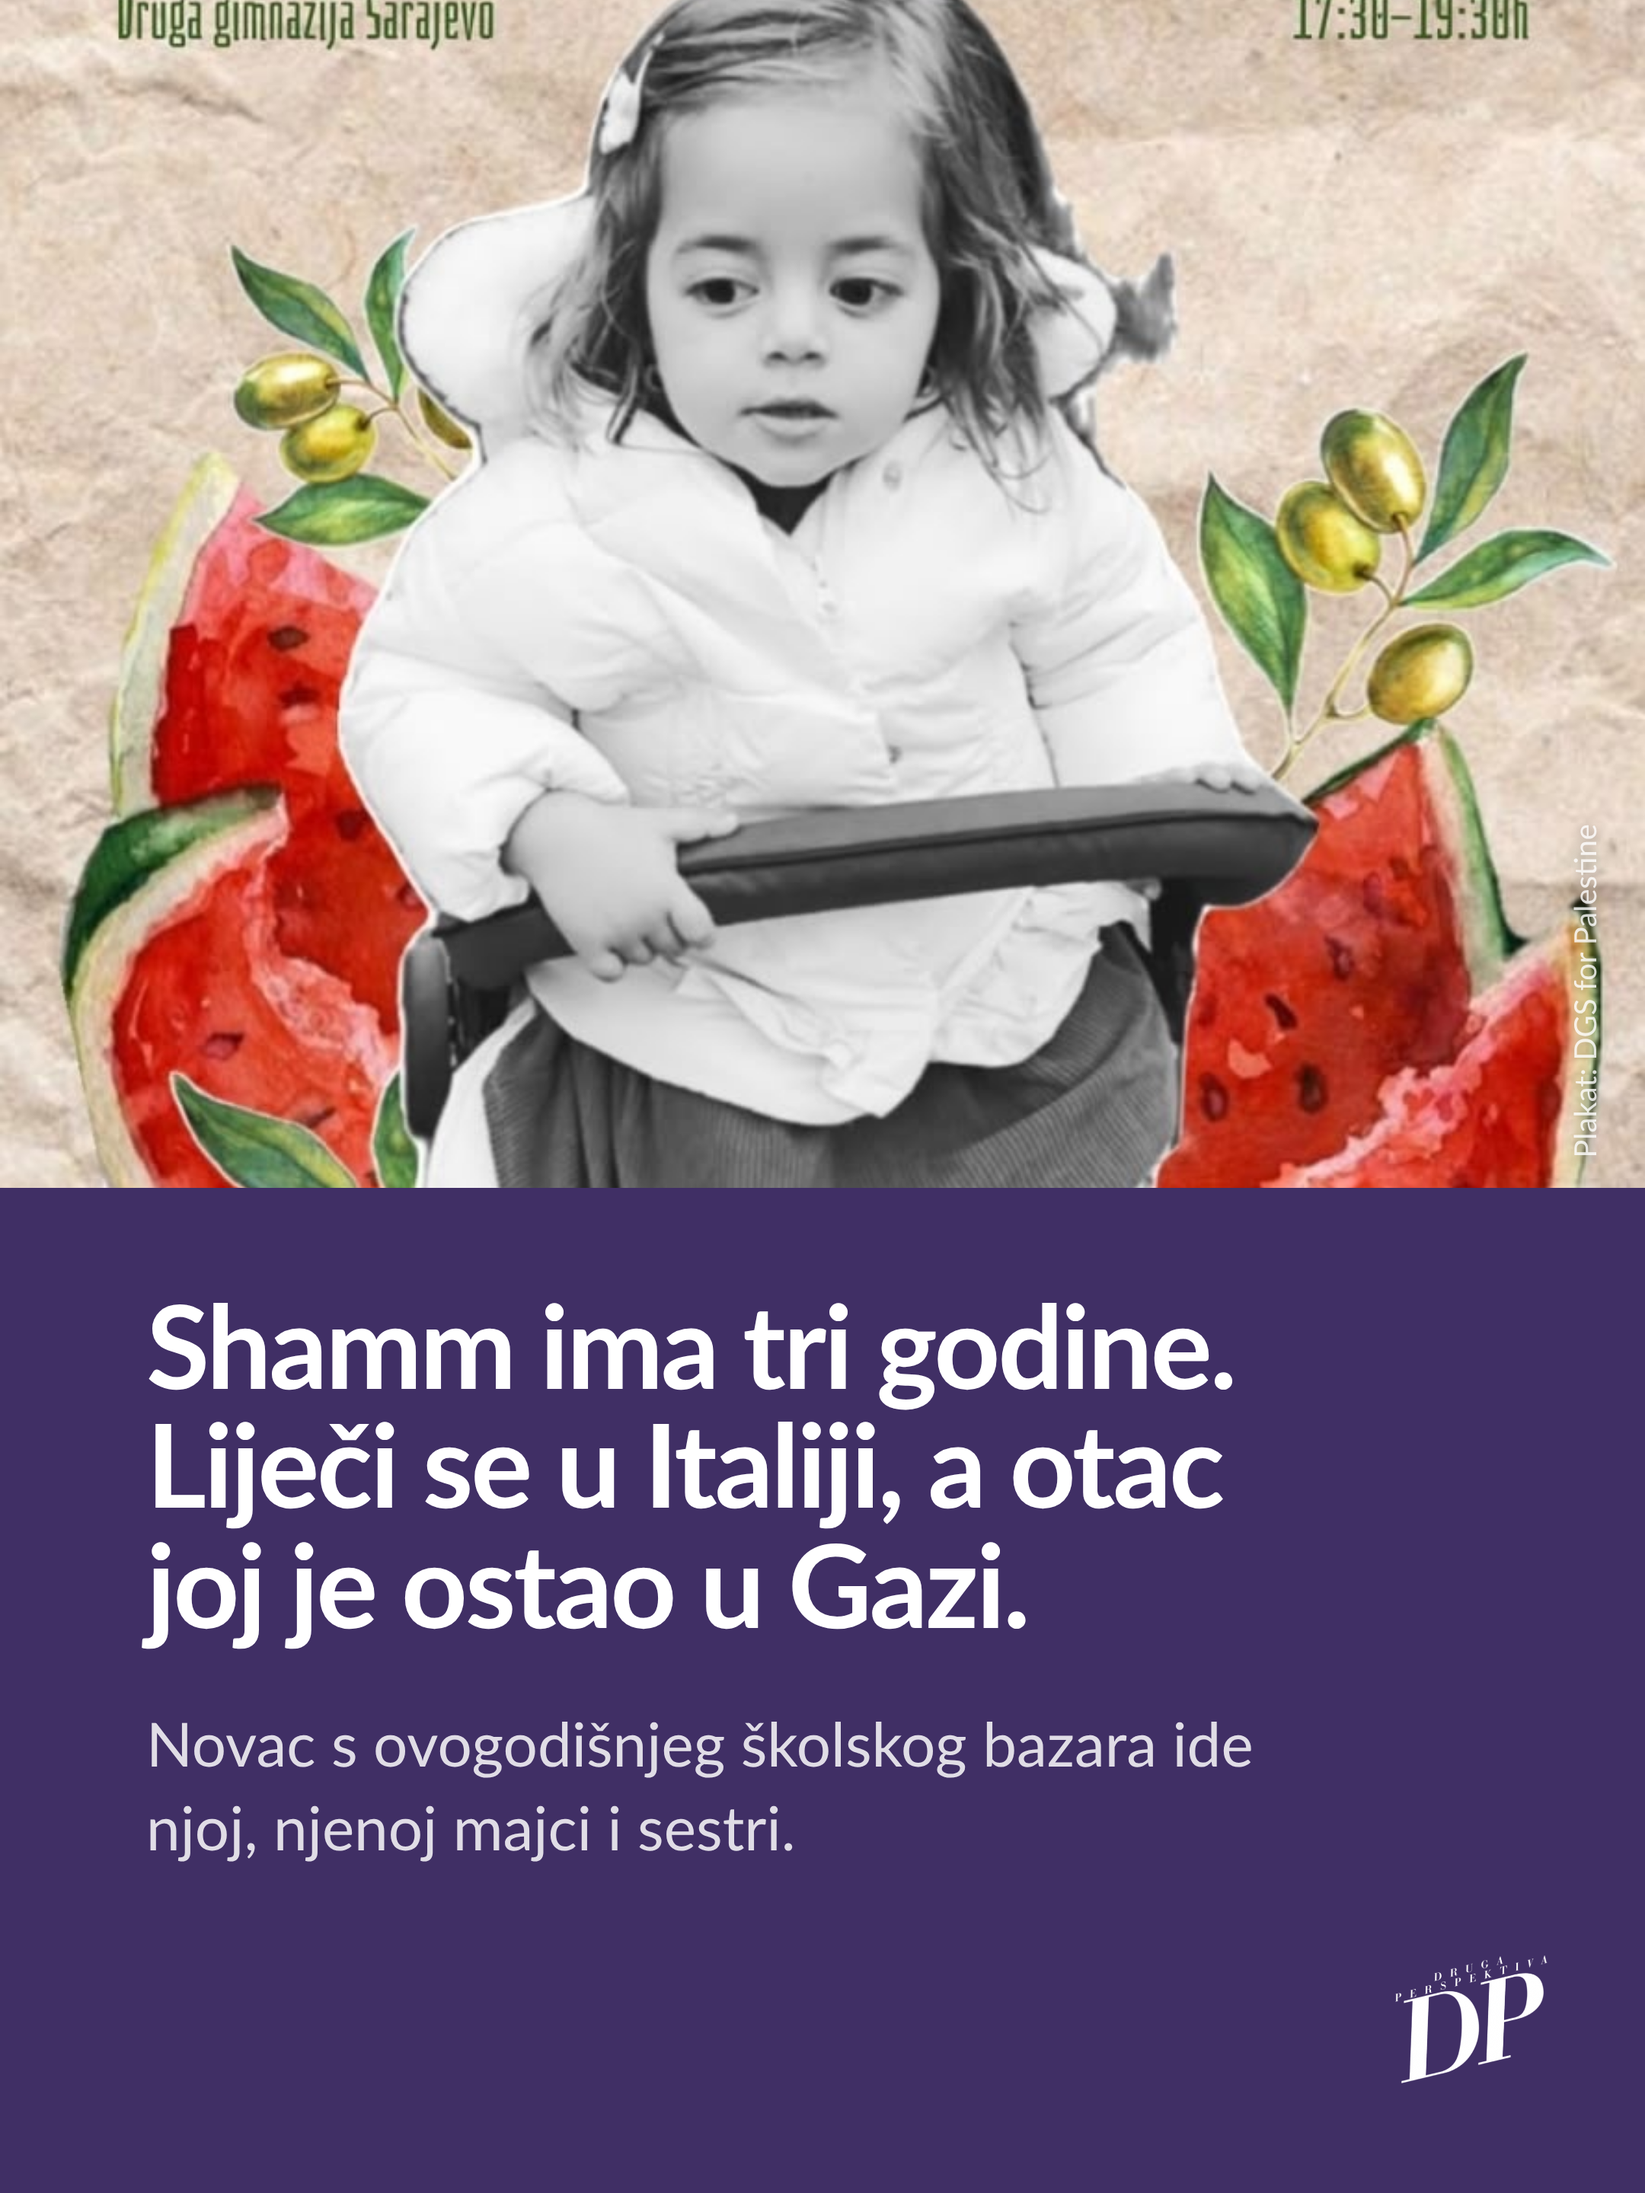
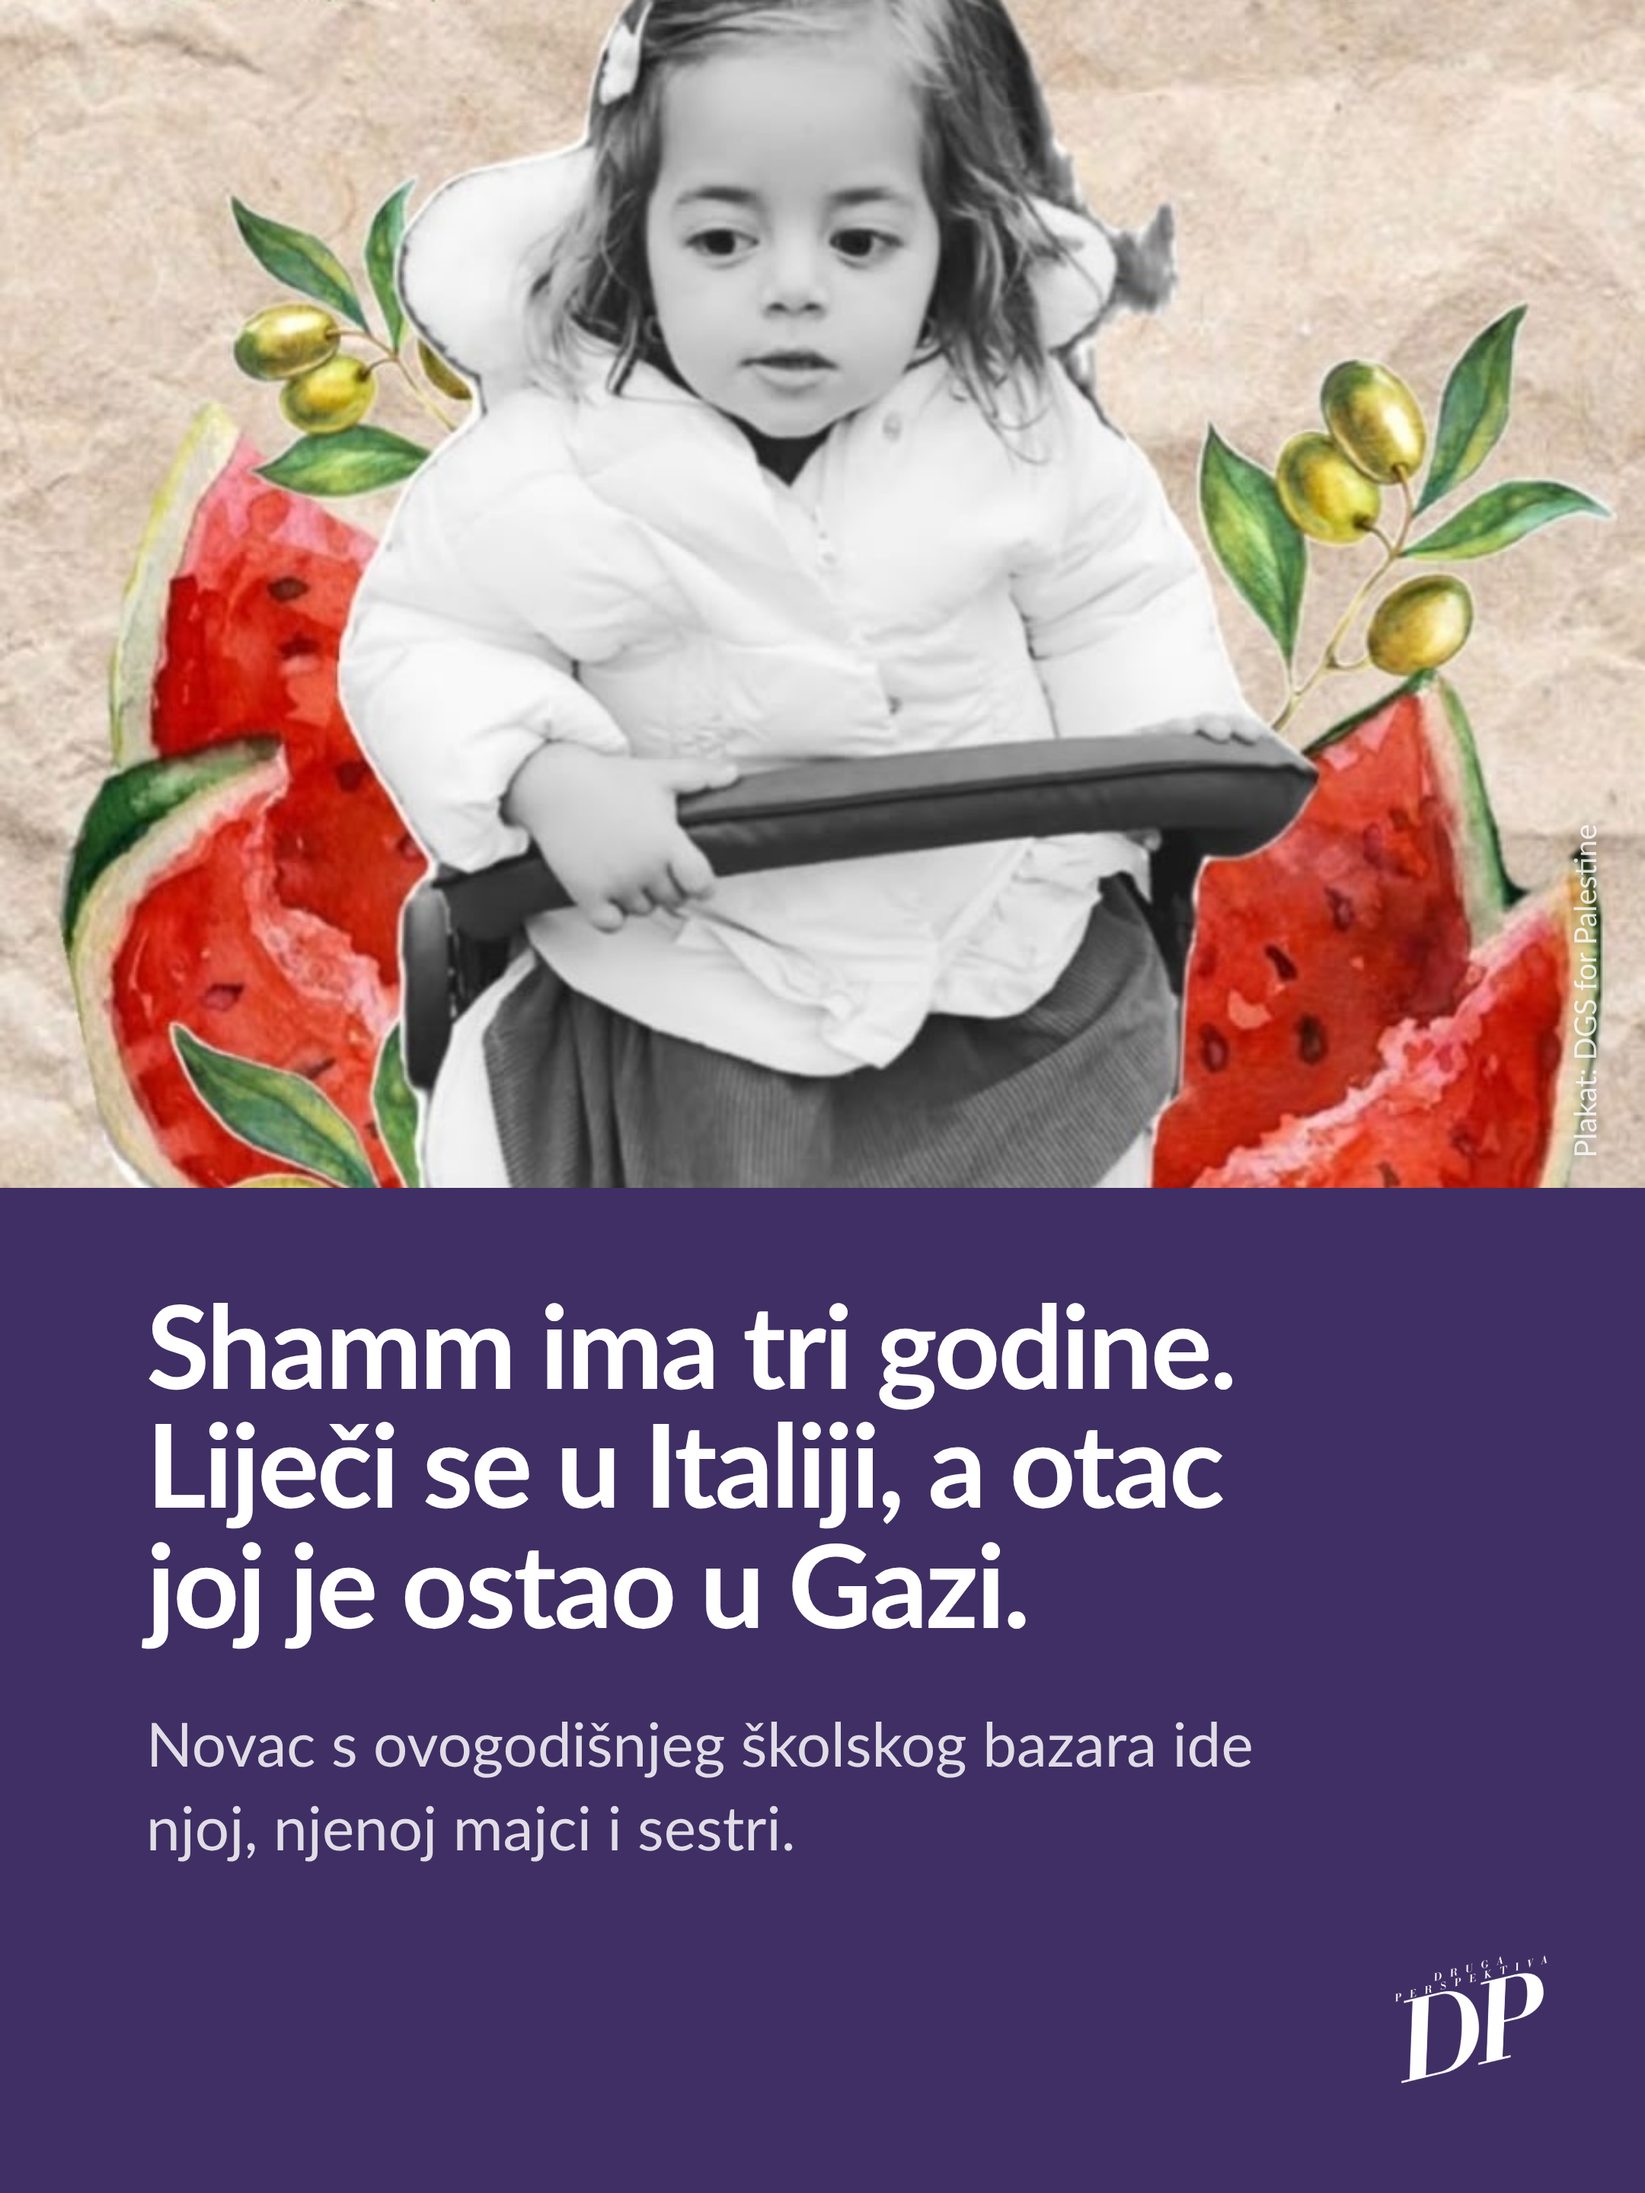
Bazar Shamm: čišći isječak fotografije
Claude-Session: https://claude.ai/code/session_01SB3ebhmkUeistxtESDnN7q

Changed region(s): [[0.0, 0.0, 1.0, 0.5625], [0.9926, 0.3125, 1.0, 0.3438], [0.9616, 0.125, 0.9926, 0.1562]]

diff --git a/promo/bazar-shamm/dizajn.html b/promo/bazar-shamm/dizajn.html
@@ -82,7 +82,7 @@ body { background: #777; font-family: "Lato", sans-serif; color: #fff; padding: 
 .napomena b { color: #fff; font-weight: 700; }
 
 /* 1. Fotografija gore, panel dolje. */
-.foto-panel .gornja { position: absolute; left: 0; right: 0; top: 0; height: 780px; width: 100%; object-fit: cover; object-position: 50% 20%; }
+.foto-panel .gornja { position: absolute; left: 0; right: 0; top: 0; height: 780px; width: 100%; object-fit: cover; object-position: 50% 0%; }
 .foto-panel .panel { position: absolute; left: 0; right: 0; bottom: 0; top: 780px; background: var(--ljubicasta); }
 .foto-panel .dno { position: absolute; left: var(--mt); right: var(--mt); top: 850px; }
 .foto-panel .dno .tekst { margin-right: 140px; }
